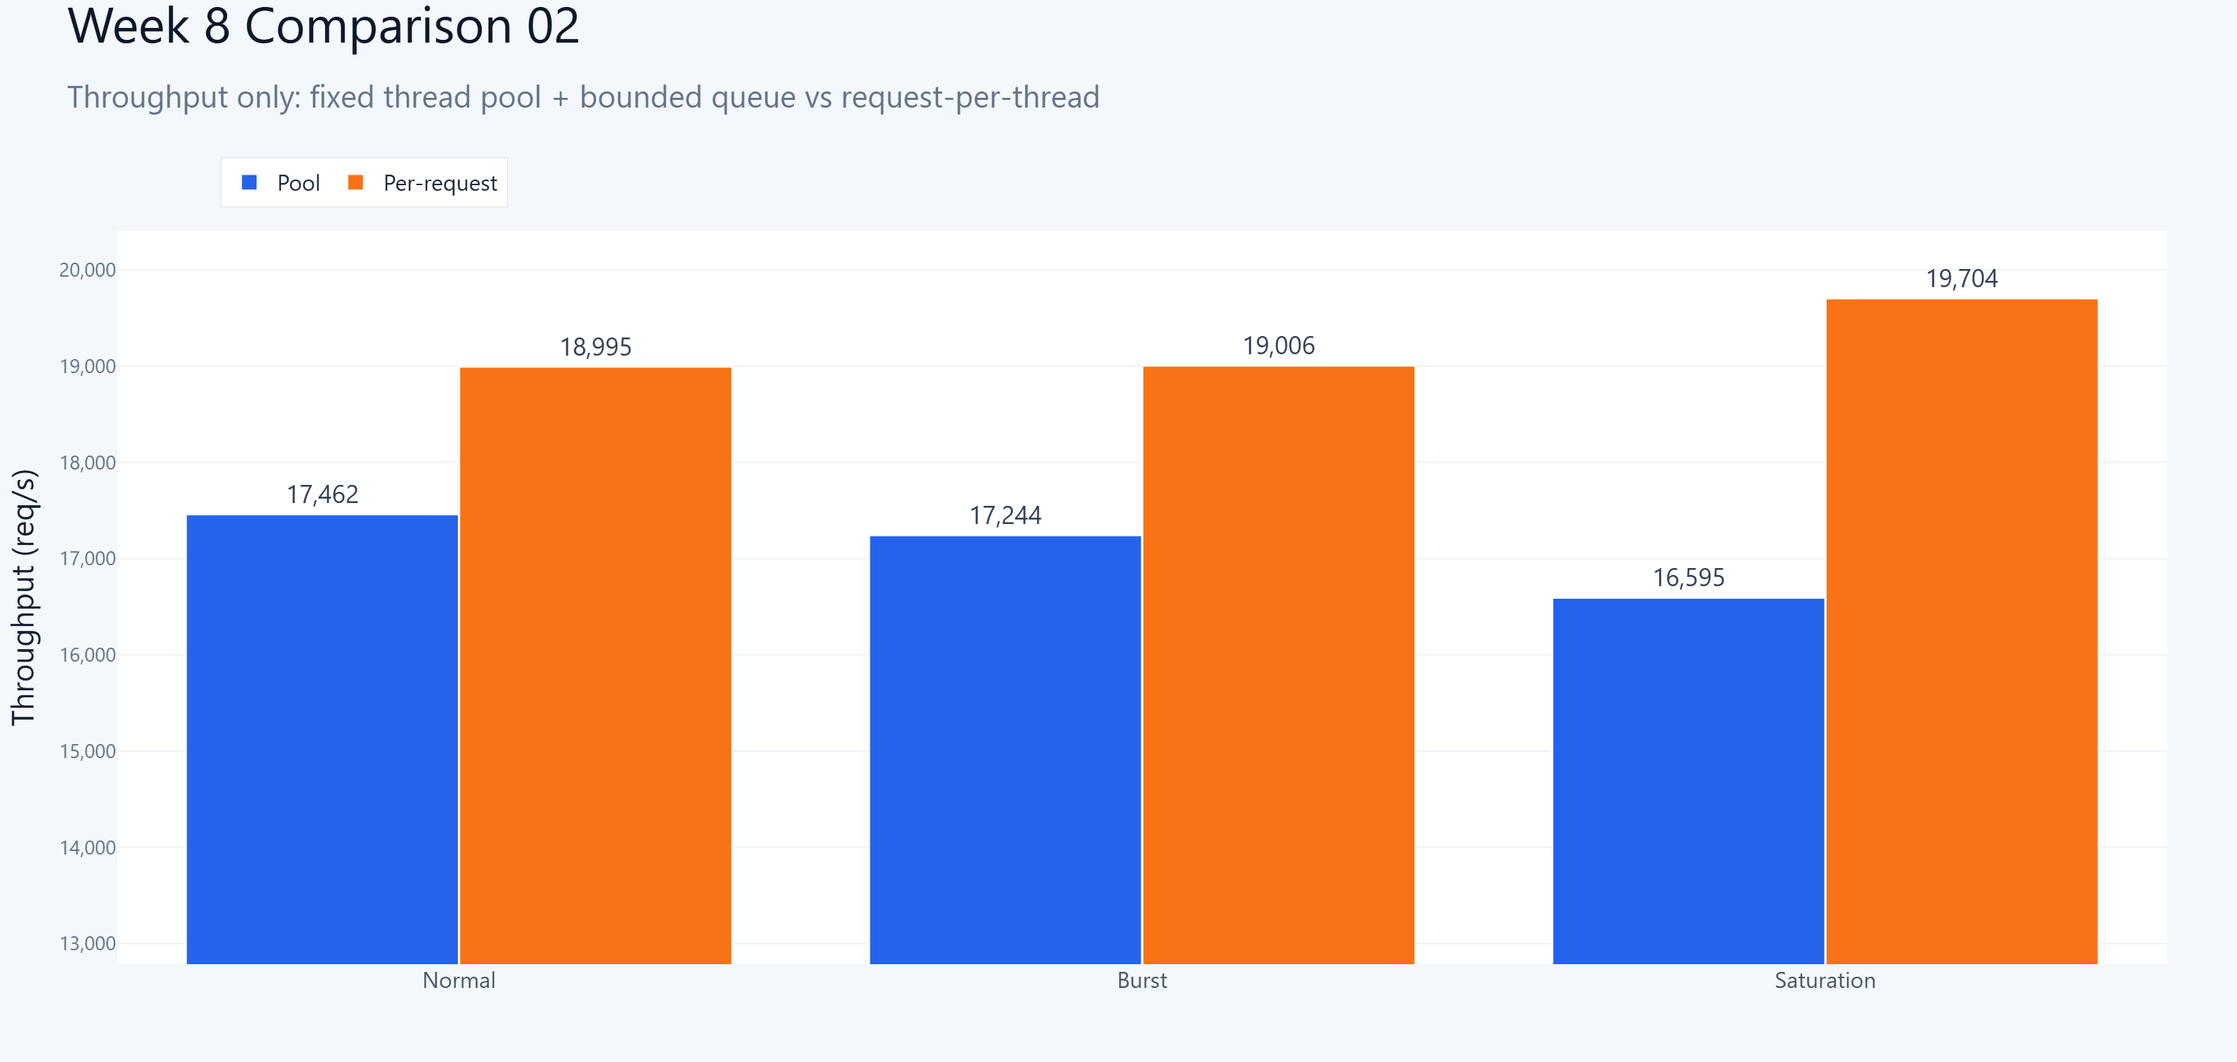
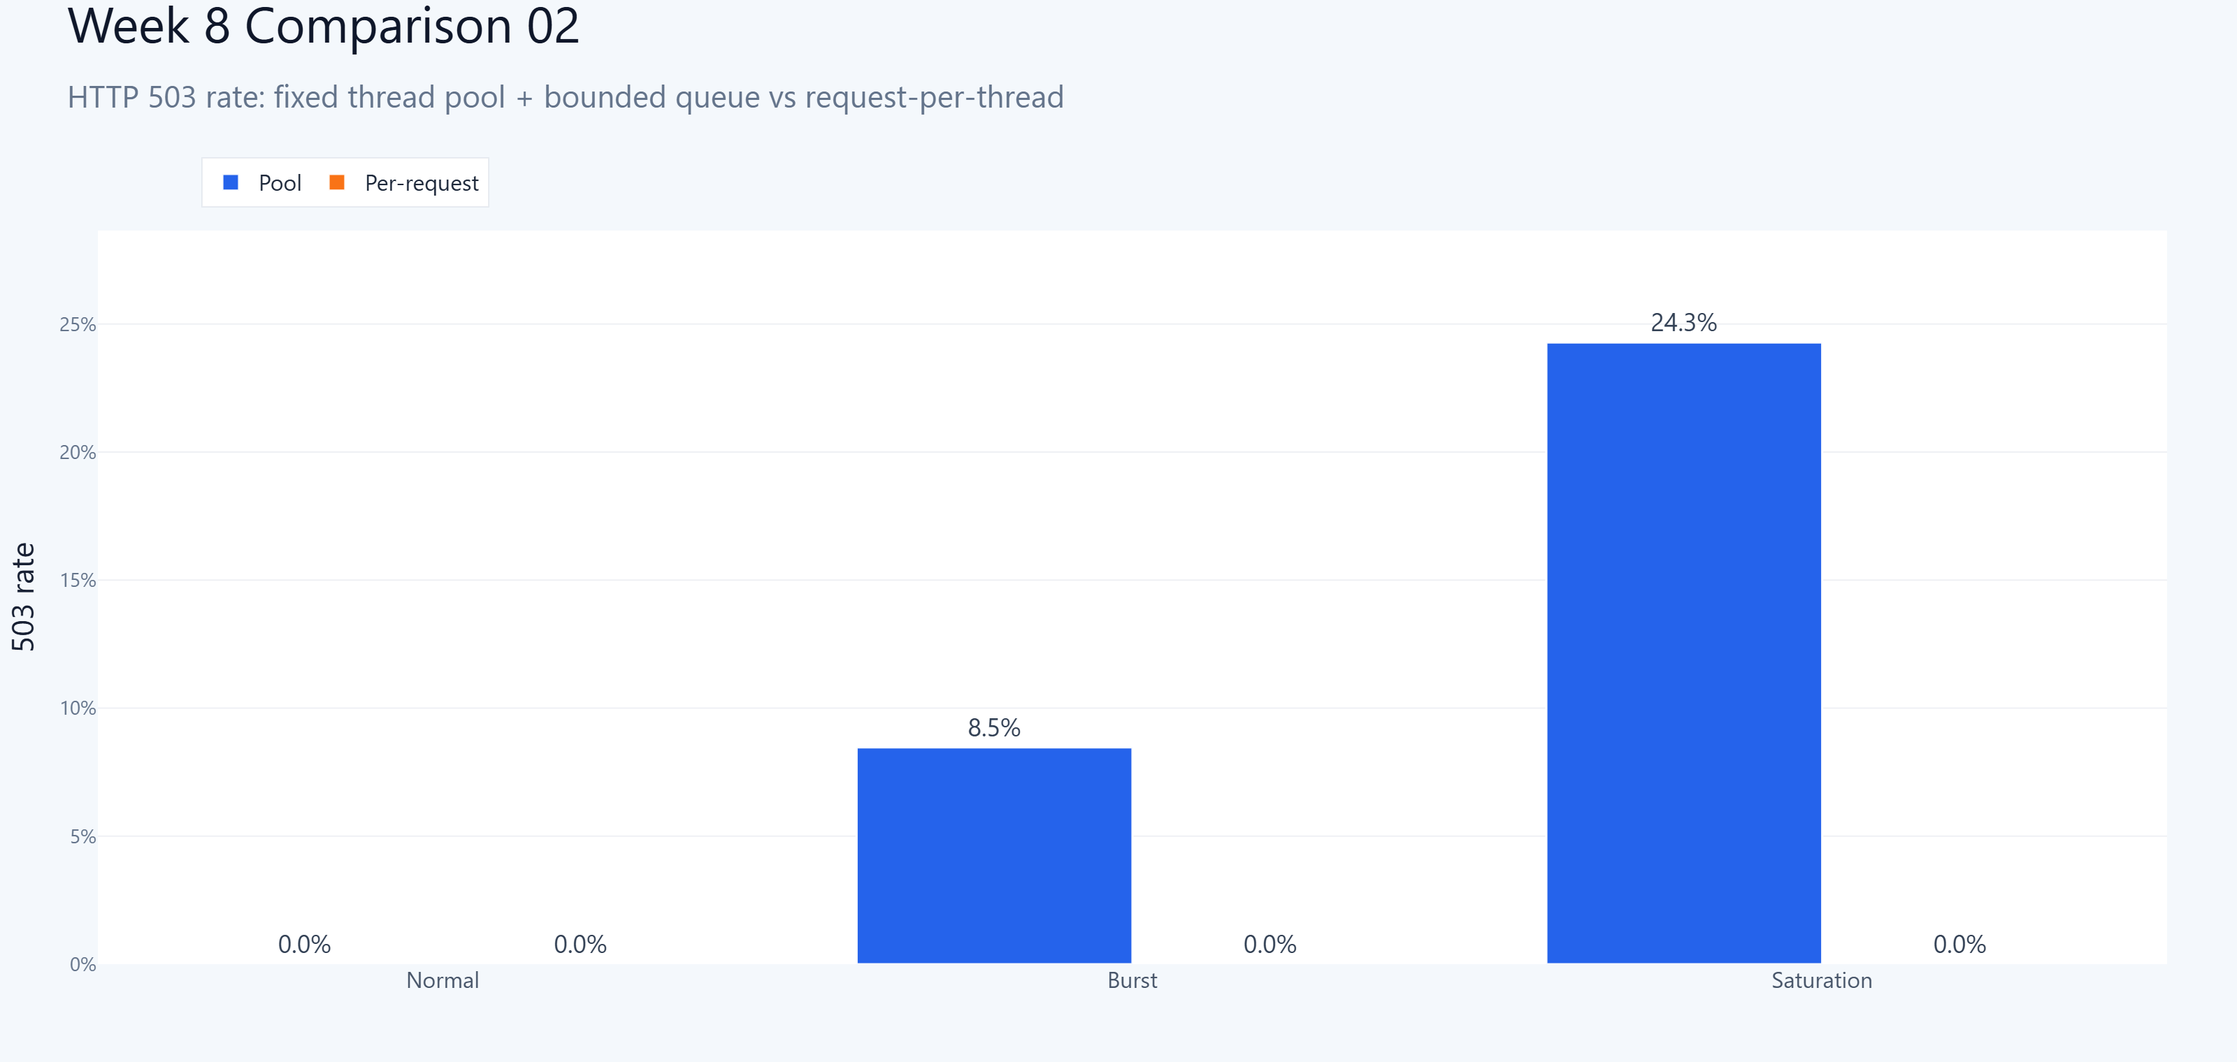
Update WEEK8 presentation 02 graph to 503

diff --git a/artifacts/week8/presentation_plotly/week8_plotly_02.html b/artifacts/week8/presentation_plotly/week8_plotly_02.html
@@ -2,6 +2,6 @@
 <head><meta charset="utf-8" /></head>
 <body>
     <div>                        <script>window.PlotlyConfig = {MathJaxConfig: 'local'};</script>
-        <script charset="utf-8" src="https://cdn.plot.ly/plotly-3.5.0.min.js" integrity="sha256-fHbNLP+GlIXN+efbQec78UkemUz3NJp7UmfGxC1tNxs=" crossorigin="anonymous"></script>                <div id="22e0bc73-2325-4f3a-b227-9d46d4bf7f39" class="plotly-graph-div" style="height:760px; width:1600px;"></div>            <script>                window.PLOTLYENV=window.PLOTLYENV || {};                                if (document.getElementById("22e0bc73-2325-4f3a-b227-9d46d4bf7f39")) {                    Plotly.newPlot(                        "22e0bc73-2325-4f3a-b227-9d46d4bf7f39",                        [{"cliponaxis":false,"hovertemplate":"%{x}\u003cbr\u003e%{fullData.name}\u003cbr\u003eThroughput: %{text} req\u002fs\u003cextra\u003e\u003c\u002fextra\u003e","marker":{"color":"#2563EB","line":{"color":"rgba(255,255,255,0.95)","width":1.6}},"name":"Pool","text":["17,462","17,244","16,595"],"textfont":{"color":"#334155","size":18},"textposition":"outside","x":["Normal","Burst","Saturation"],"y":{"dtype":"f8","bdata":"16NwPZoN0UC4HoXr4dbQQArXo3C9NNBA"},"type":"bar"},{"cliponaxis":false,"hovertemplate":"%{x}\u003cbr\u003e%{fullData.name}\u003cbr\u003eThroughput: %{text} req\u002fs\u003cextra\u003e\u003c\u002fextra\u003e","marker":{"color":"#F97316","line":{"color":"rgba(255,255,255,0.95)","width":1.6}},"name":"Per-request","text":["18,995","19,006","19,704"],"textfont":{"color":"#334155","size":18},"textposition":"outside","x":["Normal","Burst","Saturation"],"y":{"dtype":"f8","bdata":"H4XrUaiM0kCF61G4jo\u002fSQIXrUbgOPtNA"},"type":"bar"}],                        {"template":{"data":{"histogram2dcontour":[{"type":"histogram2dcontour","colorbar":{"outlinewidth":0,"ticks":""},"colorscale":[[0.0,"#0d0887"],[0.1111111111111111,"#46039f"],[0.2222222222222222,"#7201a8"],[0.3333333333333333,"#9c179e"],[0.4444444444444444,"#bd3786"],[0.5555555555555556,"#d8576b"],[0.6666666666666666,"#ed7953"],[0.7777777777777778,"#fb9f3a"],[0.8888888888888888,"#fdca26"],[1.0,"#f0f921"]]}],"choropleth":[{"type":"choropleth","colorbar":{"outlinewidth":0,"ticks":""}}],"histogram2d":[{"type":"histogram2d","colorbar":{"outlinewidth":0,"ticks":""},"colorscale":[[0.0,"#0d0887"],[0.1111111111111111,"#46039f"],[0.2222222222222222,"#7201a8"],[0.3333333333333333,"#9c179e"],[0.4444444444444444,"#bd3786"],[0.5555555555555556,"#d8576b"],[0.6666666666666666,"#ed7953"],[0.7777777777777778,"#fb9f3a"],[0.8888888888888888,"#fdca26"],[1.0,"#f0f921"]]}],"heatmap":[{"type":"heatmap","colorbar":{"outlinewidth":0,"ticks":""},"colorscale":[[0.0,"#0d0887"],[0.1111111111111111,"#46039f"],[0.2222222222222222,"#7201a8"],[0.3333333333333333,"#9c179e"],[0.4444444444444444,"#bd3786"],[0.5555555555555556,"#d8576b"],[0.6666666666666666,"#ed7953"],[0.7777777777777778,"#fb9f3a"],[0.8888888888888888,"#fdca26"],[1.0,"#f0f921"]]}],"contourcarpet":[{"type":"contourcarpet","colorbar":{"outlinewidth":0,"ticks":""}}],"contour":[{"type":"contour","colorbar":{"outlinewidth":0,"ticks":""},"colorscale":[[0.0,"#0d0887"],[0.1111111111111111,"#46039f"],[0.2222222222222222,"#7201a8"],[0.3333333333333333,"#9c179e"],[0.4444444444444444,"#bd3786"],[0.5555555555555556,"#d8576b"],[0.6666666666666666,"#ed7953"],[0.7777777777777778,"#fb9f3a"],[0.8888888888888888,"#fdca26"],[1.0,"#f0f921"]]}],"surface":[{"type":"surface","colorbar":{"outlinewidth":0,"ticks":""},"colorscale":[[0.0,"#0d0887"],[0.1111111111111111,"#46039f"],[0.2222222222222222,"#7201a8"],[0.3333333333333333,"#9c179e"],[0.4444444444444444,"#bd3786"],[0.5555555555555556,"#d8576b"],[0.6666666666666666,"#ed7953"],[0.7777777777777778,"#fb9f3a"],[0.8888888888888888,"#fdca26"],[1.0,"#f0f921"]]}],"mesh3d":[{"type":"mesh3d","colorbar":{"outlinewidth":0,"ticks":""}}],"scatter":[{"fillpattern":{"fillmode":"overlay","size":10,"solidity":0.2},"type":"scatter"}],"parcoords":[{"type":"parcoords","line":{"colorbar":{"outlinewidth":0,"ticks":""}}}],"scatterpolargl":[{"type":"scatterpolargl","marker":{"colorbar":{"outlinewidth":0,"ticks":""}}}],"bar":[{"error_x":{"color":"#2a3f5f"},"error_y":{"color":"#2a3f5f"},"marker":{"line":{"color":"#E5ECF6","width":0.5},"pattern":{"fillmode":"overlay","size":10,"solidity":0.2}},"type":"bar"}],"scattergeo":[{"type":"scattergeo","marker":{"colorbar":{"outlinewidth":0,"ticks":""}}}],"scatterpolar":[{"type":"scatterpolar","marker":{"colorbar":{"outlinewidth":0,"ticks":""}}}],"histogram":[{"marker":{"pattern":{"fillmode":"overlay","size":10,"solidity":0.2}},"type":"histogram"}],"scattergl":[{"type":"scattergl","marker":{"colorbar":{"outlinewidth":0,"ticks":""}}}],"scatter3d":[{"type":"scatter3d","line":{"colorbar":{"outlinewidth":0,"ticks":""}},"marker":{"colorbar":{"outlinewidth":0,"ticks":""}}}],"scattermap":[{"type":"scattermap","marker":{"colorbar":{"outlinewidth":0,"ticks":""}}}],"scattermapbox":[{"type":"scattermapbox","marker":{"colorbar":{"outlinewidth":0,"ticks":""}}}],"scatterternary":[{"type":"scatterternary","marker":{"colorbar":{"outlinewidth":0,"ticks":""}}}],"scattercarpet":[{"type":"scattercarpet","marker":{"colorbar":{"outlinewidth":0,"ticks":""}}}],"carpet":[{"aaxis":{"endlinecolor":"#2a3f5f","gridcolor":"white","linecolor":"white","minorgridcolor":"white","startlinecolor":"#2a3f5f"},"baxis":{"endlinecolor":"#2a3f5f","gridcolor":"white","linecolor":"white","minorgridcolor":"white","startlinecolor":"#2a3f5f"},"type":"carpet"}],"table":[{"cells":{"fill":{"color":"#EBF0F8"},"line":{"color":"white"}},"header":{"fill":{"color":"#C8D4E3"},"line":{"color":"white"}},"type":"table"}],"barpolar":[{"marker":{"line":{"color":"#E5ECF6","width":0.5},"pattern":{"fillmode":"overlay","size":10,"solidity":0.2}},"type":"barpolar"}],"pie":[{"automargin":true,"type":"pie"}]},"layout":{"autotypenumbers":"strict","colorway":["#636efa","#EF553B","#00cc96","#ab63fa","#FFA15A","#19d3f3","#FF6692","#B6E880","#FF97FF","#FECB52"],"font":{"color":"#2a3f5f"},"hovermode":"closest","hoverlabel":{"align":"left"},"paper_bgcolor":"white","plot_bgcolor":"#E5ECF6","polar":{"bgcolor":"#E5ECF6","angularaxis":{"gridcolor":"white","linecolor":"white","ticks":""},"radialaxis":{"gridcolor":"white","linecolor":"white","ticks":""}},"ternary":{"bgcolor":"#E5ECF6","aaxis":{"gridcolor":"white","linecolor":"white","ticks":""},"baxis":{"gridcolor":"white","linecolor":"white","ticks":""},"caxis":{"gridcolor":"white","linecolor":"white","ticks":""}},"coloraxis":{"colorbar":{"outlinewidth":0,"ticks":""}},"colorscale":{"sequential":[[0.0,"#0d0887"],[0.1111111111111111,"#46039f"],[0.2222222222222222,"#7201a8"],[0.3333333333333333,"#9c179e"],[0.4444444444444444,"#bd3786"],[0.5555555555555556,"#d8576b"],[0.6666666666666666,"#ed7953"],[0.7777777777777778,"#fb9f3a"],[0.8888888888888888,"#fdca26"],[1.0,"#f0f921"]],"sequentialminus":[[0.0,"#0d0887"],[0.1111111111111111,"#46039f"],[0.2222222222222222,"#7201a8"],[0.3333333333333333,"#9c179e"],[0.4444444444444444,"#bd3786"],[0.5555555555555556,"#d8576b"],[0.6666666666666666,"#ed7953"],[0.7777777777777778,"#fb9f3a"],[0.8888888888888888,"#fdca26"],[1.0,"#f0f921"]],"diverging":[[0,"#8e0152"],[0.1,"#c51b7d"],[0.2,"#de77ae"],[0.3,"#f1b6da"],[0.4,"#fde0ef"],[0.5,"#f7f7f7"],[0.6,"#e6f5d0"],[0.7,"#b8e186"],[0.8,"#7fbc41"],[0.9,"#4d9221"],[1,"#276419"]]},"xaxis":{"gridcolor":"white","linecolor":"white","ticks":"","title":{"standoff":15},"zerolinecolor":"white","automargin":true,"zerolinewidth":2},"yaxis":{"gridcolor":"white","linecolor":"white","ticks":"","title":{"standoff":15},"zerolinecolor":"white","automargin":true,"zerolinewidth":2},"scene":{"xaxis":{"backgroundcolor":"#E5ECF6","gridcolor":"white","linecolor":"white","showbackground":true,"ticks":"","zerolinecolor":"white","gridwidth":2},"yaxis":{"backgroundcolor":"#E5ECF6","gridcolor":"white","linecolor":"white","showbackground":true,"ticks":"","zerolinecolor":"white","gridwidth":2},"zaxis":{"backgroundcolor":"#E5ECF6","gridcolor":"white","linecolor":"white","showbackground":true,"ticks":"","zerolinecolor":"white","gridwidth":2}},"shapedefaults":{"line":{"color":"#2a3f5f"}},"annotationdefaults":{"arrowcolor":"#2a3f5f","arrowhead":0,"arrowwidth":1},"geo":{"bgcolor":"white","landcolor":"#E5ECF6","subunitcolor":"white","showland":true,"showlakes":true,"lakecolor":"white"},"title":{"x":0.05},"mapbox":{"style":"light"}}},"margin":{"l":70,"r":50,"t":165,"b":70},"title":{"font":{"size":36,"color":"#0F172A"},"text":"Week 8 Comparison 02\u003cbr\u003e\u003cspan style='font-size:22px;color:#64748B'\u003eThroughput only: fixed thread pool + bounded queue vs request-per-thread\u003c\u002fspan\u003e","x":0.03,"xanchor":"left","y":0.96},"legend":{"font":{"size":16},"orientation":"h","x":0.05,"y":1.1,"bgcolor":"rgba(255,255,255,0.96)","bordercolor":"rgba(148,163,184,0.18)","borderwidth":1},"font":{"family":"Segoe UI, Arial, sans-serif","color":"#1E293B"},"barmode":"group","width":1600,"height":760,"paper_bgcolor":"#F4F8FC","plot_bgcolor":"#FFFFFF","xaxis":{"tickfont":{"size":16,"color":"#475569"},"showgrid":false},"yaxis":{"title":{"font":{"size":22,"color":"#172033"},"text":"Throughput (req\u002fs)"},"tickfont":{"size":14,"color":"#64748B"},"tickformat":",","gridcolor":"rgba(148, 163, 184, 0.16)","zeroline":false,"range":[12786.775,20407.7]}},                        {"responsive": true}                    )                };            </script>        </div>
+        <script charset="utf-8" src="https://cdn.plot.ly/plotly-3.5.0.min.js" integrity="sha256-fHbNLP+GlIXN+efbQec78UkemUz3NJp7UmfGxC1tNxs=" crossorigin="anonymous"></script>                <div id="006ba216-20d3-442f-a74b-0851a0647406" class="plotly-graph-div" style="height:760px; width:1600px;"></div>            <script>                window.PLOTLYENV=window.PLOTLYENV || {};                                if (document.getElementById("006ba216-20d3-442f-a74b-0851a0647406")) {                    Plotly.newPlot(                        "006ba216-20d3-442f-a74b-0851a0647406",                        [{"cliponaxis":false,"hovertemplate":"%{x}\u003cbr\u003e%{fullData.name}\u003cbr\u003eHTTP 503 rate: %{text}\u003cextra\u003e\u003c\u002fextra\u003e","marker":{"color":"#2563EB","line":{"color":"rgba(255,255,255,0.95)","width":1.6}},"name":"Pool","text":["0.0%","8.5%","24.3%"],"textfont":{"color":"#334155","size":18},"textposition":"outside","x":["Normal","Burst","Saturation"],"y":{"dtype":"f8","bdata":"AAAAAAAAAACQoPgx5q61P6MBvAUSFM8\u002f"},"type":"bar"},{"cliponaxis":false,"hovertemplate":"%{x}\u003cbr\u003e%{fullData.name}\u003cbr\u003eHTTP 503 rate: %{text}\u003cextra\u003e\u003c\u002fextra\u003e","marker":{"color":"#F97316","line":{"color":"rgba(255,255,255,0.95)","width":1.6}},"name":"Per-request","text":["0.0%","0.0%","0.0%"],"textfont":{"color":"#334155","size":18},"textposition":"outside","x":["Normal","Burst","Saturation"],"y":{"dtype":"f8","bdata":"AAAAAAAAAAAAAAAAAAAAAAAAAAAAAAAA"},"type":"bar"}],                        {"template":{"data":{"histogram2dcontour":[{"type":"histogram2dcontour","colorbar":{"outlinewidth":0,"ticks":""},"colorscale":[[0.0,"#0d0887"],[0.1111111111111111,"#46039f"],[0.2222222222222222,"#7201a8"],[0.3333333333333333,"#9c179e"],[0.4444444444444444,"#bd3786"],[0.5555555555555556,"#d8576b"],[0.6666666666666666,"#ed7953"],[0.7777777777777778,"#fb9f3a"],[0.8888888888888888,"#fdca26"],[1.0,"#f0f921"]]}],"choropleth":[{"type":"choropleth","colorbar":{"outlinewidth":0,"ticks":""}}],"histogram2d":[{"type":"histogram2d","colorbar":{"outlinewidth":0,"ticks":""},"colorscale":[[0.0,"#0d0887"],[0.1111111111111111,"#46039f"],[0.2222222222222222,"#7201a8"],[0.3333333333333333,"#9c179e"],[0.4444444444444444,"#bd3786"],[0.5555555555555556,"#d8576b"],[0.6666666666666666,"#ed7953"],[0.7777777777777778,"#fb9f3a"],[0.8888888888888888,"#fdca26"],[1.0,"#f0f921"]]}],"heatmap":[{"type":"heatmap","colorbar":{"outlinewidth":0,"ticks":""},"colorscale":[[0.0,"#0d0887"],[0.1111111111111111,"#46039f"],[0.2222222222222222,"#7201a8"],[0.3333333333333333,"#9c179e"],[0.4444444444444444,"#bd3786"],[0.5555555555555556,"#d8576b"],[0.6666666666666666,"#ed7953"],[0.7777777777777778,"#fb9f3a"],[0.8888888888888888,"#fdca26"],[1.0,"#f0f921"]]}],"contourcarpet":[{"type":"contourcarpet","colorbar":{"outlinewidth":0,"ticks":""}}],"contour":[{"type":"contour","colorbar":{"outlinewidth":0,"ticks":""},"colorscale":[[0.0,"#0d0887"],[0.1111111111111111,"#46039f"],[0.2222222222222222,"#7201a8"],[0.3333333333333333,"#9c179e"],[0.4444444444444444,"#bd3786"],[0.5555555555555556,"#d8576b"],[0.6666666666666666,"#ed7953"],[0.7777777777777778,"#fb9f3a"],[0.8888888888888888,"#fdca26"],[1.0,"#f0f921"]]}],"surface":[{"type":"surface","colorbar":{"outlinewidth":0,"ticks":""},"colorscale":[[0.0,"#0d0887"],[0.1111111111111111,"#46039f"],[0.2222222222222222,"#7201a8"],[0.3333333333333333,"#9c179e"],[0.4444444444444444,"#bd3786"],[0.5555555555555556,"#d8576b"],[0.6666666666666666,"#ed7953"],[0.7777777777777778,"#fb9f3a"],[0.8888888888888888,"#fdca26"],[1.0,"#f0f921"]]}],"mesh3d":[{"type":"mesh3d","colorbar":{"outlinewidth":0,"ticks":""}}],"scatter":[{"fillpattern":{"fillmode":"overlay","size":10,"solidity":0.2},"type":"scatter"}],"parcoords":[{"type":"parcoords","line":{"colorbar":{"outlinewidth":0,"ticks":""}}}],"scatterpolargl":[{"type":"scatterpolargl","marker":{"colorbar":{"outlinewidth":0,"ticks":""}}}],"bar":[{"error_x":{"color":"#2a3f5f"},"error_y":{"color":"#2a3f5f"},"marker":{"line":{"color":"#E5ECF6","width":0.5},"pattern":{"fillmode":"overlay","size":10,"solidity":0.2}},"type":"bar"}],"scattergeo":[{"type":"scattergeo","marker":{"colorbar":{"outlinewidth":0,"ticks":""}}}],"scatterpolar":[{"type":"scatterpolar","marker":{"colorbar":{"outlinewidth":0,"ticks":""}}}],"histogram":[{"marker":{"pattern":{"fillmode":"overlay","size":10,"solidity":0.2}},"type":"histogram"}],"scattergl":[{"type":"scattergl","marker":{"colorbar":{"outlinewidth":0,"ticks":""}}}],"scatter3d":[{"type":"scatter3d","line":{"colorbar":{"outlinewidth":0,"ticks":""}},"marker":{"colorbar":{"outlinewidth":0,"ticks":""}}}],"scattermap":[{"type":"scattermap","marker":{"colorbar":{"outlinewidth":0,"ticks":""}}}],"scattermapbox":[{"type":"scattermapbox","marker":{"colorbar":{"outlinewidth":0,"ticks":""}}}],"scatterternary":[{"type":"scatterternary","marker":{"colorbar":{"outlinewidth":0,"ticks":""}}}],"scattercarpet":[{"type":"scattercarpet","marker":{"colorbar":{"outlinewidth":0,"ticks":""}}}],"carpet":[{"aaxis":{"endlinecolor":"#2a3f5f","gridcolor":"white","linecolor":"white","minorgridcolor":"white","startlinecolor":"#2a3f5f"},"baxis":{"endlinecolor":"#2a3f5f","gridcolor":"white","linecolor":"white","minorgridcolor":"white","startlinecolor":"#2a3f5f"},"type":"carpet"}],"table":[{"cells":{"fill":{"color":"#EBF0F8"},"line":{"color":"white"}},"header":{"fill":{"color":"#C8D4E3"},"line":{"color":"white"}},"type":"table"}],"barpolar":[{"marker":{"line":{"color":"#E5ECF6","width":0.5},"pattern":{"fillmode":"overlay","size":10,"solidity":0.2}},"type":"barpolar"}],"pie":[{"automargin":true,"type":"pie"}]},"layout":{"autotypenumbers":"strict","colorway":["#636efa","#EF553B","#00cc96","#ab63fa","#FFA15A","#19d3f3","#FF6692","#B6E880","#FF97FF","#FECB52"],"font":{"color":"#2a3f5f"},"hovermode":"closest","hoverlabel":{"align":"left"},"paper_bgcolor":"white","plot_bgcolor":"#E5ECF6","polar":{"bgcolor":"#E5ECF6","angularaxis":{"gridcolor":"white","linecolor":"white","ticks":""},"radialaxis":{"gridcolor":"white","linecolor":"white","ticks":""}},"ternary":{"bgcolor":"#E5ECF6","aaxis":{"gridcolor":"white","linecolor":"white","ticks":""},"baxis":{"gridcolor":"white","linecolor":"white","ticks":""},"caxis":{"gridcolor":"white","linecolor":"white","ticks":""}},"coloraxis":{"colorbar":{"outlinewidth":0,"ticks":""}},"colorscale":{"sequential":[[0.0,"#0d0887"],[0.1111111111111111,"#46039f"],[0.2222222222222222,"#7201a8"],[0.3333333333333333,"#9c179e"],[0.4444444444444444,"#bd3786"],[0.5555555555555556,"#d8576b"],[0.6666666666666666,"#ed7953"],[0.7777777777777778,"#fb9f3a"],[0.8888888888888888,"#fdca26"],[1.0,"#f0f921"]],"sequentialminus":[[0.0,"#0d0887"],[0.1111111111111111,"#46039f"],[0.2222222222222222,"#7201a8"],[0.3333333333333333,"#9c179e"],[0.4444444444444444,"#bd3786"],[0.5555555555555556,"#d8576b"],[0.6666666666666666,"#ed7953"],[0.7777777777777778,"#fb9f3a"],[0.8888888888888888,"#fdca26"],[1.0,"#f0f921"]],"diverging":[[0,"#8e0152"],[0.1,"#c51b7d"],[0.2,"#de77ae"],[0.3,"#f1b6da"],[0.4,"#fde0ef"],[0.5,"#f7f7f7"],[0.6,"#e6f5d0"],[0.7,"#b8e186"],[0.8,"#7fbc41"],[0.9,"#4d9221"],[1,"#276419"]]},"xaxis":{"gridcolor":"white","linecolor":"white","ticks":"","title":{"standoff":15},"zerolinecolor":"white","automargin":true,"zerolinewidth":2},"yaxis":{"gridcolor":"white","linecolor":"white","ticks":"","title":{"standoff":15},"zerolinecolor":"white","automargin":true,"zerolinewidth":2},"scene":{"xaxis":{"backgroundcolor":"#E5ECF6","gridcolor":"white","linecolor":"white","showbackground":true,"ticks":"","zerolinecolor":"white","gridwidth":2},"yaxis":{"backgroundcolor":"#E5ECF6","gridcolor":"white","linecolor":"white","showbackground":true,"ticks":"","zerolinecolor":"white","gridwidth":2},"zaxis":{"backgroundcolor":"#E5ECF6","gridcolor":"white","linecolor":"white","showbackground":true,"ticks":"","zerolinecolor":"white","gridwidth":2}},"shapedefaults":{"line":{"color":"#2a3f5f"}},"annotationdefaults":{"arrowcolor":"#2a3f5f","arrowhead":0,"arrowwidth":1},"geo":{"bgcolor":"white","landcolor":"#E5ECF6","subunitcolor":"white","showland":true,"showlakes":true,"lakecolor":"white"},"title":{"x":0.05},"mapbox":{"style":"light"}}},"margin":{"l":70,"r":50,"t":165,"b":70},"title":{"font":{"size":36,"color":"#0F172A"},"text":"Week 8 Comparison 02\u003cbr\u003e\u003cspan style='font-size:22px;color:#64748B'\u003eHTTP 503 rate: fixed thread pool + bounded queue vs request-per-thread\u003c\u002fspan\u003e","x":0.03,"xanchor":"left","y":0.96},"legend":{"font":{"size":16},"orientation":"h","x":0.05,"y":1.1,"bgcolor":"rgba(255,255,255,0.96)","bordercolor":"rgba(148,163,184,0.18)","borderwidth":1},"font":{"family":"Segoe UI, Arial, sans-serif","color":"#1E293B"},"barmode":"group","width":1600,"height":760,"paper_bgcolor":"#F4F8FC","plot_bgcolor":"#FFFFFF","xaxis":{"tickfont":{"size":16,"color":"#475569"},"showgrid":false},"yaxis":{"title":{"font":{"size":22,"color":"#172033"},"text":"503 rate"},"tickfont":{"size":14,"color":"#64748B"},"tickformat":".0%","gridcolor":"rgba(148, 163, 184, 0.16)","zeroline":false,"range":[0,0.286504]}},                        {"responsive": true}                    )                };            </script>        </div>
 </body>
 </html>

diff --git a/docs/weeks/WEEK8/presentation/presentation_visuals.md b/docs/weeks/WEEK8/presentation/presentation_visuals.md
@@ -82,7 +82,7 @@ sequenceDiagram
 
 실제 테스트 결과 표:
 
-![02 throughput comparison](../../../../artifacts/week8/presentation_plotly/week8_plotly_02.png)
+![02 503 comparison](../../../../artifacts/week8/presentation_plotly/week8_plotly_02.png)
 
 | scenario | policy | throughput_mean | p95_mean | p99_mean | 503_mean | 504_mean | success_mean |
 | --- | --- | ---: | ---: | ---: | ---: | ---: | ---: |
@@ -94,8 +94,8 @@ sequenceDiagram
 | saturation | per_request | 19704.23 | 15.44 | 23.17 | 0.0000 | 0.0000 | 0.0000 |
 
 발표 포인트:
-- 이 표는 실제 테스트 결과이므로 그대로 사용한다.
-- 발표에서는 숫자를 전부 읽지 않고, `왜 Thread Pool 방식을 채택했는지`를 중심으로 설명한다.
+- 위 그래프는 throughput이 아니라 `503 비율` 비교다.
+- 발표에서는 숫자를 전부 읽지 않고, `왜 Thread Pool 방식이 backpressure를 더 분명하게 드러내는지`를 중심으로 설명한다.
 
 근거 파일:
 - `artifacts/week8/bench_02_deep/benchmark_results_02_deep.csv`
